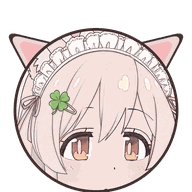
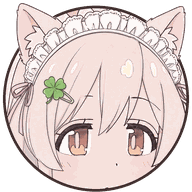
Use her own ears on the circle's edge instead of drawn ones
The circle now runs through the cat ears in the picture, and the ears stand
out past it, cut from her outline (a flood fill of the pink background). A
thin dark rim keeps the circle's shape on a white tab.

Claude-Session: https://claude.ai/code/session_015r135bArGWLutkWRjM6s2M

diff --git a/scripts/icons.py b/scripts/icons.py
@@ -2,16 +2,14 @@
 
     python3 scripts/icons.py
 
-The favicons and the manifest's "any" icons are round, with two cat ears
-standing up on the circle's top edge and nothing but see-through around
-them. favicon.png and favicon-32.png are cut closer, on the face, so it
-still reads at 16 to 32 pixels; the large ones show more of the picture.
+The favicons and the manifest's "any" icons are round: the picture cut to
+a circle whose edge runs through her cat ears, the ears standing out past
+it, and nothing but see-through around them.
 The apple-touch icon and the maskable one are full squares, since iOS and
 Android cut them to their own shape. The in-app logos (pwa-192x192.png,
 logo.png) stay rounded rectangles, as the pages frame them that way."""
-import math
 from pathlib import Path
-from PIL import Image, ImageDraw, ImageFilter
+from PIL import Image, ImageChops, ImageDraw, ImageFilter
 
 ROOT = Path(__file__).resolve().parent.parent
 SRC = Image.open(ROOT / 'design/logo.jpg').convert('RGB')
@@ -19,16 +17,11 @@ OUT = ROOT / 'public'
 W, H = SRC.size
 RADIUS = 0.2237  # an app icon's corner, as a share of its side
 
-# The cat-ear icon, as shares of its side
-CIRCLE_CY = 0.575   # the circle's centre, low enough to leave room for the ears
-CIRCLE_R = 0.415
-EAR_AT = 44          # degrees from straight up to the middle of each ear
-EAR_HALF = 25        # half the ear's width at its base, in degrees round the circle
-EAR_TIP = 1.5       # the tip's distance from the centre, in radii
-EAR_SKEW = -5        # tips lean outward by this many degrees
-FUR = (226, 214, 211)    # the hair's grey-beige
-INNER = (246, 186, 188)  # the pink inside her ears
-INK = (66, 48, 46)       # the drawing's line colour
+# The cat-ear icon: the picture in a circle whose edge runs through her own
+# ears, so the ears stand out past it. In the picture's pixels:
+CIRCLE = (704, 700, 510)  # centre x, centre y, radius
+EAR_ZONES = [(0, 0, 515, 480), (985, 0, W, 480)]  # where the ears are; the tuft between stays cut
+INK = (66, 48, 46)  # the drawing's line colour, for the rim
 
 
 def crop(share, cx=0.5, cy=0.5):
@@ -49,50 +42,42 @@ def rounded(img, size):
     return out
 
 
-def ear(cx, cy, r, side, scale=1.0):
-    """One ear's three corners: two on the circle, the tip outside it.
-    `side` is -1 for the left ear, 1 for the right."""
-    def at(deg, dist):
-        a = math.radians(deg * side)
-        return (cx + math.sin(a) * dist, cy - math.cos(a) * dist)
-    half = EAR_HALF * scale
-    tip_dist = r + (EAR_TIP - 1) * r * scale
-    base_dist = r * (1 - 0.18 * scale)  # tuck the base inside, under the circle
-    return [at(EAR_AT - half, base_dist), at(EAR_AT + EAR_SKEW * -1, tip_dist), at(EAR_AT + half, base_dist)]
+def silhouette():
+    """Her outline: everything the pink background does not reach. The lines
+    are thickened first so the fill cannot leak through a gap in them."""
+    walls = SRC.convert('L').point(lambda v: 0 if v < 120 else 255).filter(ImageFilter.MinFilter(3))
+    for corner in [(5, 5), (W - 8, 5), (5, H // 2), (W - 8, H // 2)]:
+        ImageDraw.floodfill(walls, corner, 128)
+    return walls.point(lambda v: 0 if v == 128 else 255).filter(ImageFilter.MaxFilter(3))
 
 
-def eared(img, size):
-    """The picture in a circle with two cat ears, on a see-through square."""
-    s = size * 8  # drawn large, then shrunk, for smooth edges
-    cx, cy, r = s / 2, s * CIRCLE_CY, s * CIRCLE_R
-    line = max(s * 0.022, 8 * 1.6) if size <= 32 else s * 0.014
-    canvas = Image.new('RGBA', (s, s), (0, 0, 0, 0))
-    def soft(pts, k=0.0):
-        """A filled ear shape, `k` of the way in towards its middle, its corners rounded."""
-        mx = sum(p[0] for p in pts) / 3
-        my = sum(p[1] for p in pts) / 3
-        m = Image.new('L', (s, s), 0)
-        ImageDraw.Draw(m).polygon([(mx + (x - mx) * (1 - k), my + (y - my) * (1 - k)) for x, y in pts], fill=255)
-        return m.filter(ImageFilter.GaussianBlur(s * 0.018)).point(lambda v: 255 if v > 110 else 0)
-    scale = 1.25 if size <= 32 else 1.0  # a little bigger where pixels are few
-    for side in (-1, 1):
-        pts = ear(cx, cy, r, side, scale)
-        span = math.dist(pts[0], pts[2])
-        canvas.paste(INK, (0, 0), soft(pts))
-        canvas.paste(FUR, (0, 0), soft(pts, 2.4 * line / span))
-        canvas.paste(INNER, (0, 0), soft(pts, 0.34))
-    # the outline ring, then the picture inside it
-    ImageDraw.Draw(canvas).ellipse((cx - r - line, cy - r - line, cx + r + line, cy + r + line), fill=INK)
-    pic = img.resize((round(2 * r), round(2 * r)), Image.LANCZOS).convert('RGBA')
-    mask = Image.new('L', pic.size, 0)
-    ImageDraw.Draw(mask).ellipse((0, 0, pic.size[0] - 1, pic.size[1] - 1), fill=255)
-    canvas.paste(pic, (round(cx - r), round(cy - r)), mask)
-    return canvas.resize((size, size), Image.LANCZOS)
+def eared_master():
+    """The circle with her ears poking out of it, on a see-through square."""
+    cx, cy, r = CIRCLE
+    zones = Image.new('L', SRC.size, 0)
+    for box in EAR_ZONES:
+        ImageDraw.Draw(zones).rectangle(box, fill=255)
+    mask = Image.new('L', SRC.size, 0)
+    ImageDraw.Draw(mask).ellipse((cx - r, cy - r, cx + r, cy + r), fill=255)
+    mask = ImageChops.lighter(mask, ImageChops.multiply(silhouette(), zones))
+    x0, y0, x1, y1 = mask.getbbox()
+    rim = round(r * 0.03)
+    side = max(x1 - x0, y1 - y0) + 2 * rim + 4
+    left, top = (x0 + x1 - side) // 2, (y0 + y1 - side) // 2
+    out = Image.new('RGBA', SRC.size, (0, 0, 0, 0))
+    # a thin dark rim round the circle, so it holds its shape on a white tab
+    ImageDraw.Draw(out).ellipse((cx - r - rim, cy - r - rim, cx + r + rim, cy + r + rim), fill=INK)
+    pic = SRC.convert('RGBA')
+    pic.putalpha(mask)
+    out.alpha_composite(pic)
+    canvas = Image.new('RGBA', (side, side), (0, 0, 0, 0))
+    canvas.alpha_composite(out.crop((max(left, 0), max(top, 0), left + side, top + side)),
+                           (max(-left, 0), max(-top, 0)))
+    return canvas
 
 
-face = crop(0.62, 0.5, 0.5)    # eyes and cheeks, so it reads at 16 pixels
-bust = crop(0.72, 0.5, 0.5)    # the face and fringe, her own ears left to the drawn ones
 whole = crop(1.0)
+ears = eared_master()
 
 
 def small(img):
@@ -102,10 +87,10 @@ def small(img):
     return img.quantize(colors=256, method=Image.Quantize.MEDIANCUT, dither=Image.Dither.NONE)
 
 
-eared(face, 64).save(OUT / 'favicon.png', optimize=True)
-eared(face, 32).save(OUT / 'favicon-32.png', optimize=True)
-small(eared(bust, 192)).save(OUT / 'icon-192.png', optimize=True)
-small(eared(bust, 512)).save(OUT / 'app-icon-512.png', optimize=True)
+ears.resize((64, 64), Image.LANCZOS).save(OUT / 'favicon.png', optimize=True)
+ears.resize((32, 32), Image.LANCZOS).save(OUT / 'favicon-32.png', optimize=True)
+small(ears.resize((192, 192), Image.LANCZOS)).save(OUT / 'icon-192.png', optimize=True)
+small(ears.resize((512, 512), Image.LANCZOS)).save(OUT / 'app-icon-512.png', optimize=True)
 small(rounded(whole, 192)).save(OUT / 'pwa-192x192.png', optimize=True)
 small(rounded(whole, 256)).save(OUT / 'logo.png', optimize=True)
 small(whole.resize((180, 180), Image.LANCZOS)).save(OUT / 'apple-touch-icon.png', optimize=True)
